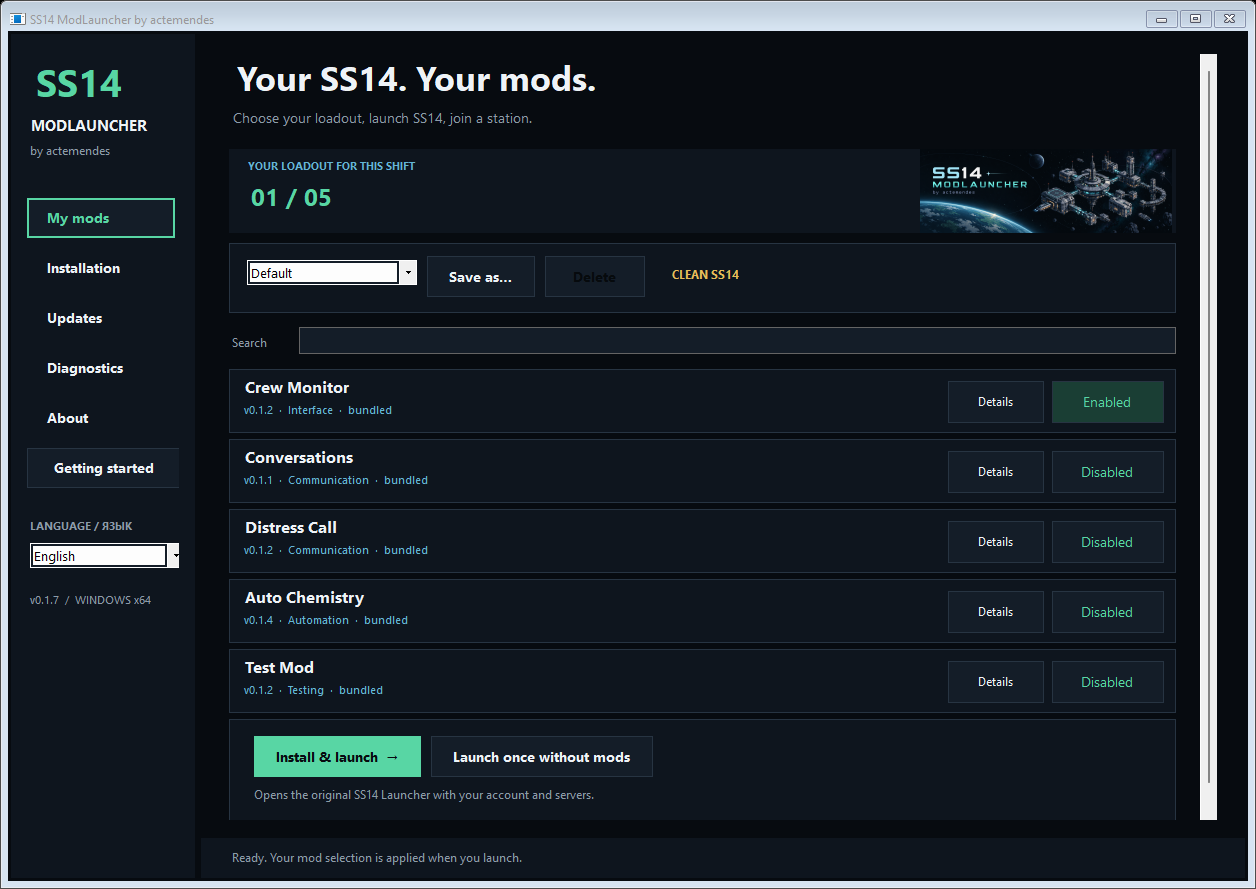
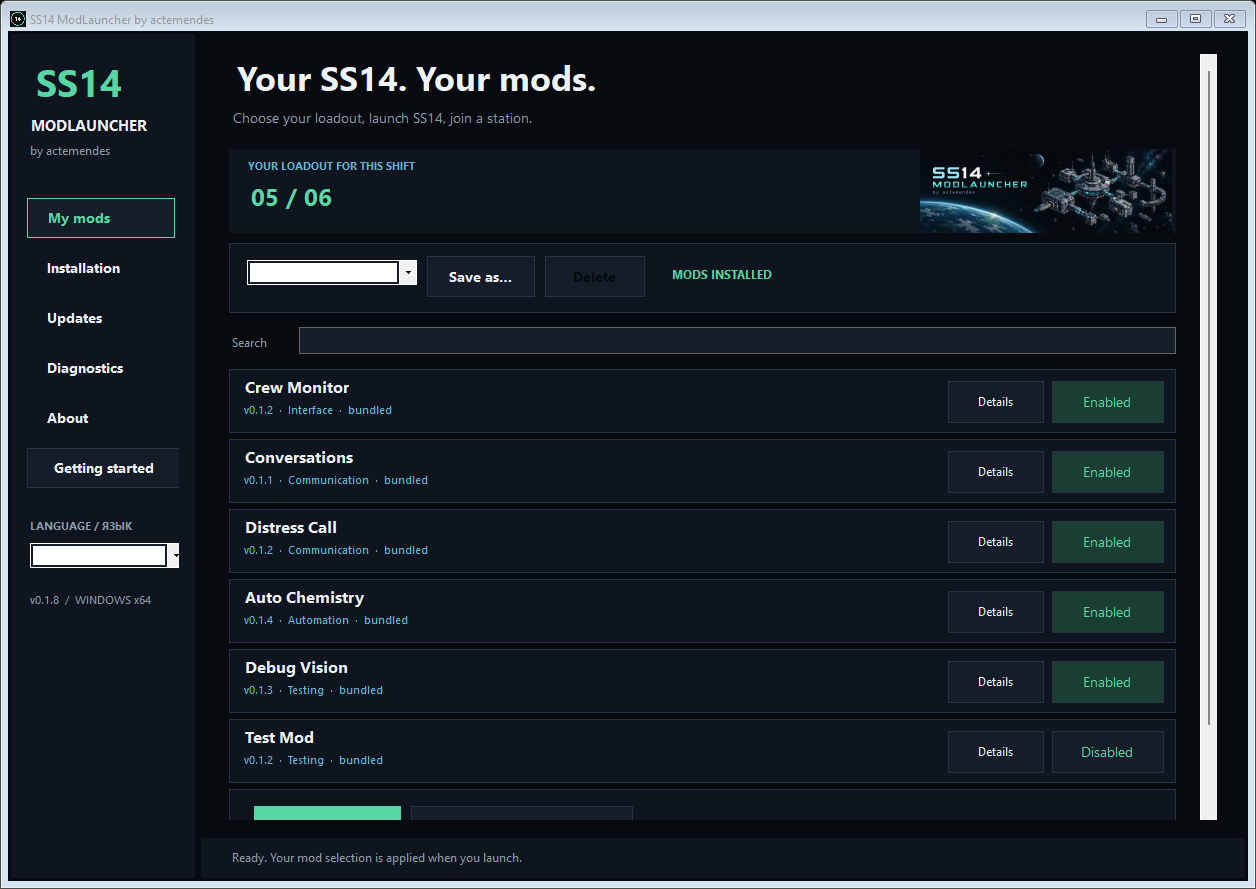
Prepare 0.1.8 download links and current RU/EN library screenshots

diff --git a/README.ru.md b/README.ru.md
@@ -4,11 +4,11 @@
 
 [English](README.md) · [Руководство](docs/user-guide.md) · [Разработка](docs/development.md) · [Подготовка релиза](docs/releasing.md)
 
-[**Скачать для Windows x64**](https://github.com/actemendes/ss14-modlauncher/releases/download/v0.1.7/SS14ModLauncher-0.1.7-win-x64.zip) · [Сообщить об ошибке](https://github.com/actemendes/ss14-modlauncher/issues/new/choose)
+[**Скачать для Windows x64**](https://github.com/actemendes/ss14-modlauncher/releases/download/v0.1.8/SS14ModLauncher-0.1.8-win-x64.zip) · [Сообщить об ошибке](https://github.com/actemendes/ss14-modlauncher/issues/new/choose)
 
 Мод-лаунчер Space Station 14 для Windows: выбор модов и профилей, запуск штатного SS14 Launcher и восстановление чистой установки из одного приложения. Тёмный интерфейс вдохновлён **ss14-crew-monitor**.
 
-**Независимый проект сообщества.** Это не официальный лаунчер Space Wizards Federation; проект не связан с разработчиками SS14. Версия **0.1.7**, платформа — **Windows x64**.
+**Независимый проект сообщества.** Это не официальный лаунчер Space Wizards Federation; проект не связан с разработчиками SS14. Версия **0.1.8**, платформа — **Windows x64**.
 
 [![Автохимия — автоматическое смешивание в SS14](docs/assets/auto-chemistry-preview.png)](https://youtu.be/hZwgM-wkamc)
 
@@ -23,7 +23,7 @@
 | Функция | В этой версии |
 | --- | --- |
 | Первый запуск | Автопоиск SS14 и настройка профиля с «Монитором экипажа» одной кнопкой |
-| Библиотека модов | Компактный список и поиск: «Монитор экипажа», «Переговоры», «Зов о помощи», «Автохимия», «Тестовый мод» |
+| Библиотека модов | Компактный список и поиск: «Монитор экипажа», «Переговоры», «Зов о помощи», «Автохимия», «Дебаг-видение», «Тестовый мод» |
 | Профили | Сохранение разных наборов модов и выбор перед запуском |
 | Русский и English | Локализация лаунчера и подписей комплектных модов |
 | Установщик-патчер | Резервная копия оригинального загрузчика, проверка SHA-256 перед изменением файлов |
@@ -38,7 +38,7 @@
 
 ## Быстрый старт
 
-1. Распакуйте весь `SS14ModLauncher-0.1.7-win-x64.zip` в доступную для записи папку. Устанавливать .NET отдельно не требуется.
+1. Распакуйте весь `SS14ModLauncher-0.1.8-win-x64.zip` в доступную для записи папку. Устанавливать .NET отдельно не требуется.
 2. Запустите **SS14ModLauncher.exe**. Окно первого запуска найдёт SS14 и предложит стандартный рекомендуемый профиль с включённым **Монитор экипажа**.
 3. Нажмите **Настроить и играть**. ModLauncher установит выбранные моды, добавит интеграцию для распознанной установки Steam и откроет штатный лаунчер для обычного подключения к серверу.
 

diff --git a/README.md b/README.md
@@ -4,11 +4,11 @@
 
 [Русский](README.ru.md) · [User guide](docs/user-guide.md) · [Development](docs/development.md) · [Release checklist](docs/releasing.md)
 
-[**Download for Windows x64**](https://github.com/actemendes/ss14-modlauncher/releases/download/v0.1.7/SS14ModLauncher-0.1.7-win-x64.zip) · [Report a bug](https://github.com/actemendes/ss14-modlauncher/issues/new/choose)
+[**Download for Windows x64**](https://github.com/actemendes/ss14-modlauncher/releases/download/v0.1.8/SS14ModLauncher-0.1.8-win-x64.zip) · [Report a bug](https://github.com/actemendes/ss14-modlauncher/issues/new/choose)
 
 A Windows mod launcher for Space Station 14: choose a mod profile, launch the original SS14 launcher, and restore a clean installation from the same app. The dark interface takes its visual cues from **ss14-crew-monitor**.
 
-**Independent community project.** This is not an official Space Wizards Federation launcher and is not affiliated with the SS14 developers. Version **0.1.7** targets **Windows x64**.
+**Independent community project.** This is not an official Space Wizards Federation launcher and is not affiliated with the SS14 developers. Version **0.1.8** targets **Windows x64**.
 
 [![Auto Chemistry — automated mixing in SS14](docs/assets/auto-chemistry-preview.png)](https://youtu.be/hZwgM-wkamc)
 
@@ -23,7 +23,7 @@ A Windows mod launcher for Space Station 14: choose a mod profile, launch the or
 | Feature | In this release |
 | --- | --- |
 | First-run setup | Find SS14 automatically and set up the recommended Crew Monitor profile with one action |
-| Mod library | Search and choose Crew Monitor, Conversations, Distress Call, Auto Chemistry and Test Mod |
+| Mod library | Search and choose Crew Monitor, Conversations, Distress Call, Auto Chemistry, Debug Vision and Test Mod |
 | Profiles | Save different selections and switch before starting the client |
 | RU / EN | Localized launcher and bundled mod labels |
 | Installer and patcher | Back up the original loader and verify file hashes before changing it |
@@ -38,7 +38,7 @@ The default update source is [`actemendes/ss14-modlauncher`](https://github.com/
 
 ## Get started
 
-1. Extract the complete `SS14ModLauncher-0.1.7-win-x64.zip` package to a writable folder. No separate .NET installation is required.
+1. Extract the complete `SS14ModLauncher-0.1.8-win-x64.zip` package to a writable folder. No separate .NET installation is required.
 2. Run **SS14ModLauncher.exe**. The first-run window looks for SS14 and offers the recommended default profile with **Crew Monitor** enabled.
 3. Press **Set up & play**. ModLauncher installs the selected mods, adds Steam integration for a recognized Steam installation, and opens the original SS14 launcher for your normal server connection.
 

diff --git a/CHANGELOG.md b/CHANGELOG.md
@@ -6,7 +6,7 @@
 - Visual effect protection suppresses flash, blindness and welding blur, intoxication/rainbow/drowsiness distortions and damage screen shading. Enabling it during blindness restores lighting disabled by the native overlay. Native effect state and gameplay damage/debuffs remain intact; switching it off resumes active effects.
 - Zoom advances once per actual command, using the game's native step and a smooth camera transition. Prediction replays no longer multiply the local zoom repeatedly after one press.
 - Camera changes retain active options while restoring the previous camera. Native zoom/scale updates are preserved for reset. Client rendering uses only data already sent by the server.
-- Launcher 0.1.8 registers the new mod ID; all previously published mod DLLs and bootstrap retain their versions and bytes. Added Harmony lifecycle/UI regression tests, a real-game API check and hook-installation smoke harness.
+- Launcher 0.1.8 registers the new mod ID; the five previously published mod DLLs retain their versions and bytes. Bootstrap remains 0.1.2 and is rebuilt with current source provenance. Added Harmony lifecycle/UI regression tests, a real-game API check and hook-installation smoke harness.
 - Reinstalling from a newer portable launcher upgrades older bundled mod assemblies. Equal/newer independently installed versions and verified mods with unknown versions retain their installed bytes.
 
 ## 0.1.7 — 2026-10-10

diff --git a/docs/development.md b/docs/development.md
@@ -12,7 +12,7 @@ cd ss14-modlauncher
 
 The default `Auto` mode reads the explicit `mode` (`Full` or `ModsOnly`) from `release/release.json`; it does not infer the mode from version equality. Full mode builds the launcher from source. Already released mod versions are reused byte-for-byte from the artifact ledger; newly versioned mods are built from source.
 
-Current source versions (unreleased full feed 0.1.8):
+Current source versions (full feed 0.1.8):
 
 | Component | Version | Source of truth |
 | --- | --- | --- |
